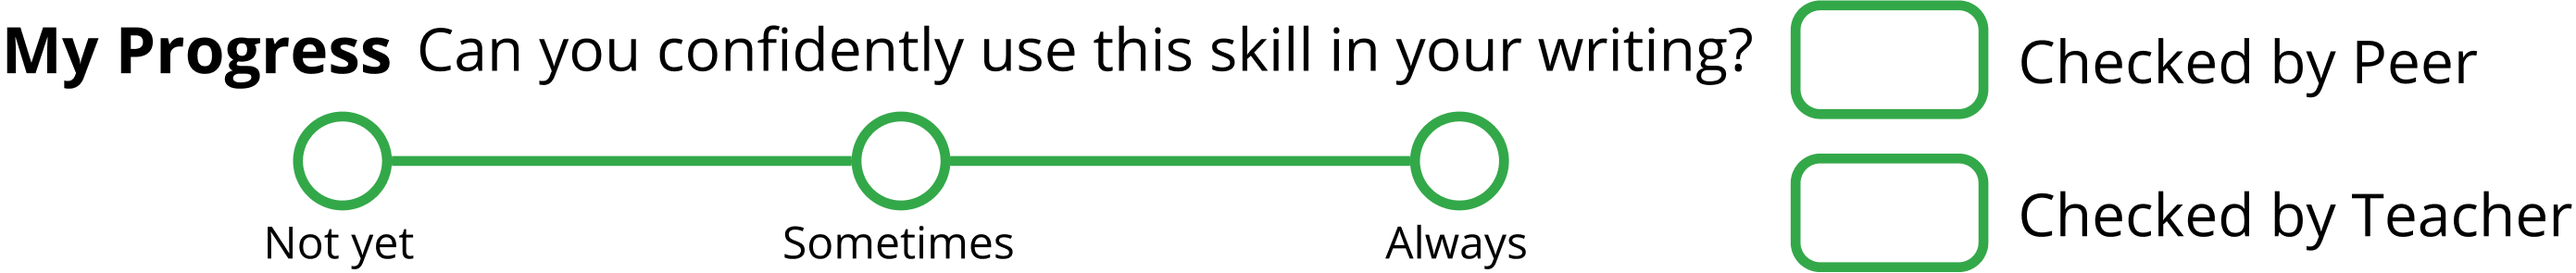
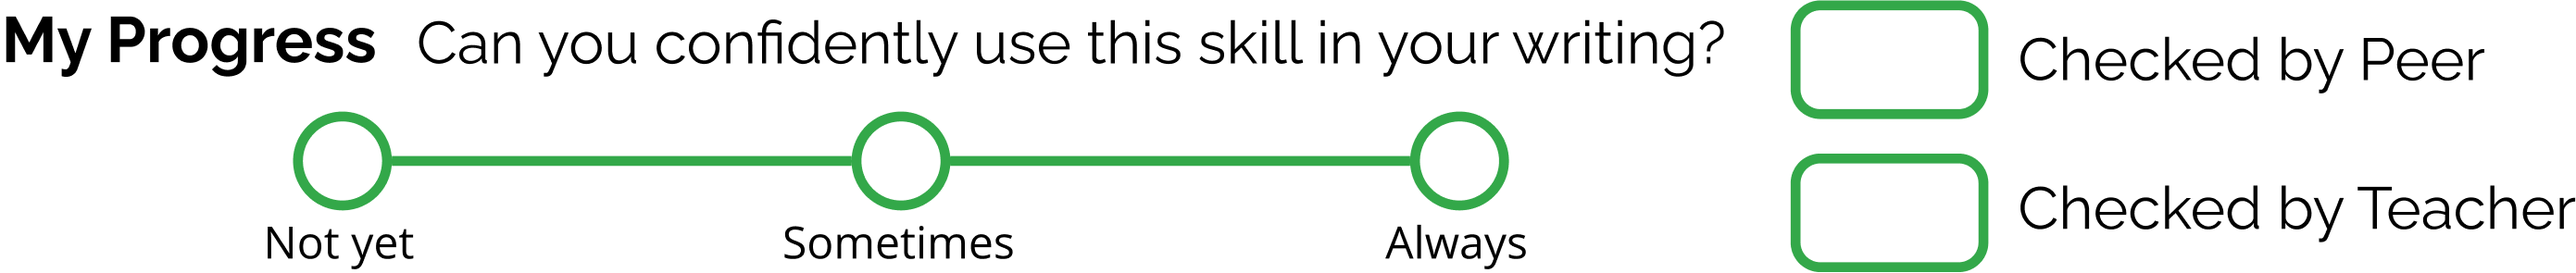
goal sheet changes as per feedback

Changed region(s): [[0.0, 0.061, 0.6801, 0.3356], [0.7728, 0.6712, 1.0, 0.8847], [0.7728, 0.122, 0.9892, 0.3356]]

diff --git a/public/goalSheetCss/goalsheet-page.css b/public/goalSheetCss/goalsheet-page.css
@@ -106,7 +106,7 @@
        }
     
        .goal-heading{
-           font-style: italic;
+          
            background-color: #dadfe6;  
            padding: 5px 5px;
            border-radius: 10px;
@@ -142,7 +142,8 @@
        .strats{
            width: 94%;
            margin: auto;
-           min-height: 500px;
+           min-height: 410px;
+            max-height:490px;
        }
        
        .progress-two img{
@@ -223,7 +224,7 @@
         margin-right:2%;
         margin-bottom: 0.5cm;
         box-shadow: 0 0 0.5cm rgba(0,0,0,0.5);
-        width: 21cm;
+        width: 50%;
 
        }
     
@@ -248,7 +249,7 @@
     body{
         background-color: red;
         font-family: sans-serif;
-        margin: 1.6cm;
+        margin: 0.6cm;
         margin-top:20px;
     }
 
@@ -275,7 +276,7 @@
 
     .preview{
         display:none;
-        width :17cm;
+        width :40%;
         height:100%;
         background: rgb(221, 189, 214);
         box-shadow: 0px 5px 10px grey inset;
@@ -381,6 +382,7 @@
         .strats{
             width: 94%;
             margin: auto;
-            min-height: 500px;
+            min-height: 410px;
+            max-height:490px;
         }
 }

diff --git a/resources/views/goalSheet.blade.php b/resources/views/goalSheet.blade.php
@@ -12,7 +12,7 @@
 			<h1 class="goalsheet-header-heading">
 				<span class="heading-name">{{$gs["student_name"]}}</span>{{substr($gs["student_name"], -1) == 's' ? "' " : "'s "}} Writing Goal
 			</h1>
-			<img src="images/Scriibi-logo.png" alt="scriibi" class="goalsheet-header-logo">	
+			<img src="images/GoalSheetLogo.png" alt="scriibi" class="goalsheet-header-logo">	
 		</div>
 			<div class="finding-ideas">
 				<h3>{{$gs["skill_name"]}}</h3>

diff --git a/resources/views/preview.blade.php b/resources/views/preview.blade.php
@@ -22,7 +22,7 @@
 			</div>
 
 			<div class="goal-heading-purpose">
-			<img src="images/goal-sheet-heading.png" alt="goal-sheet-heading" style="height:73px">	
+			<img src="images/goal-sheet-heading.png" alt="goal-sheet-heading" style="height:71px">	
 			
 			</div>
 			<!--
